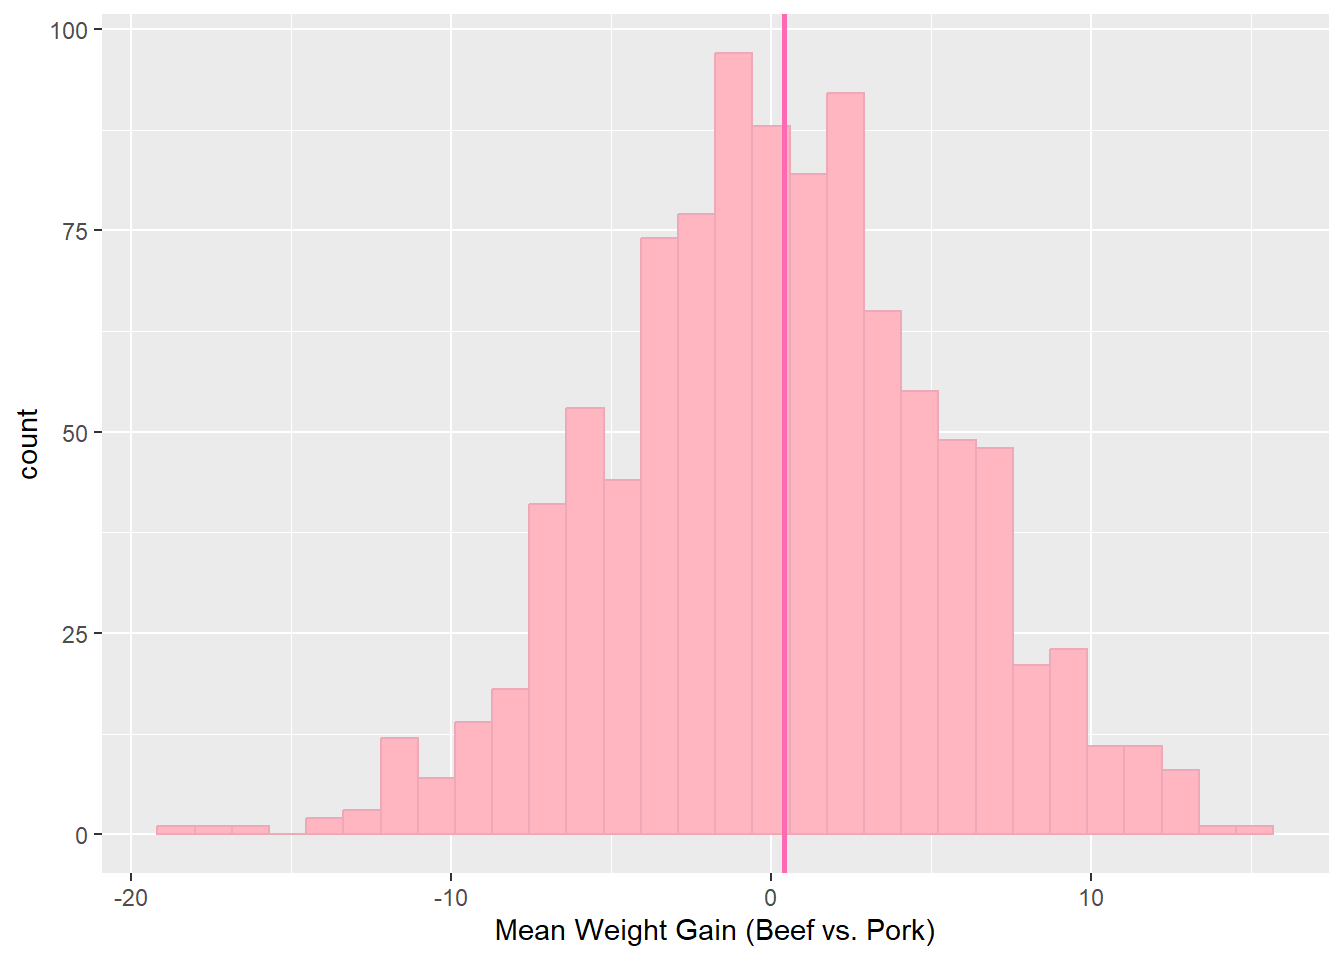
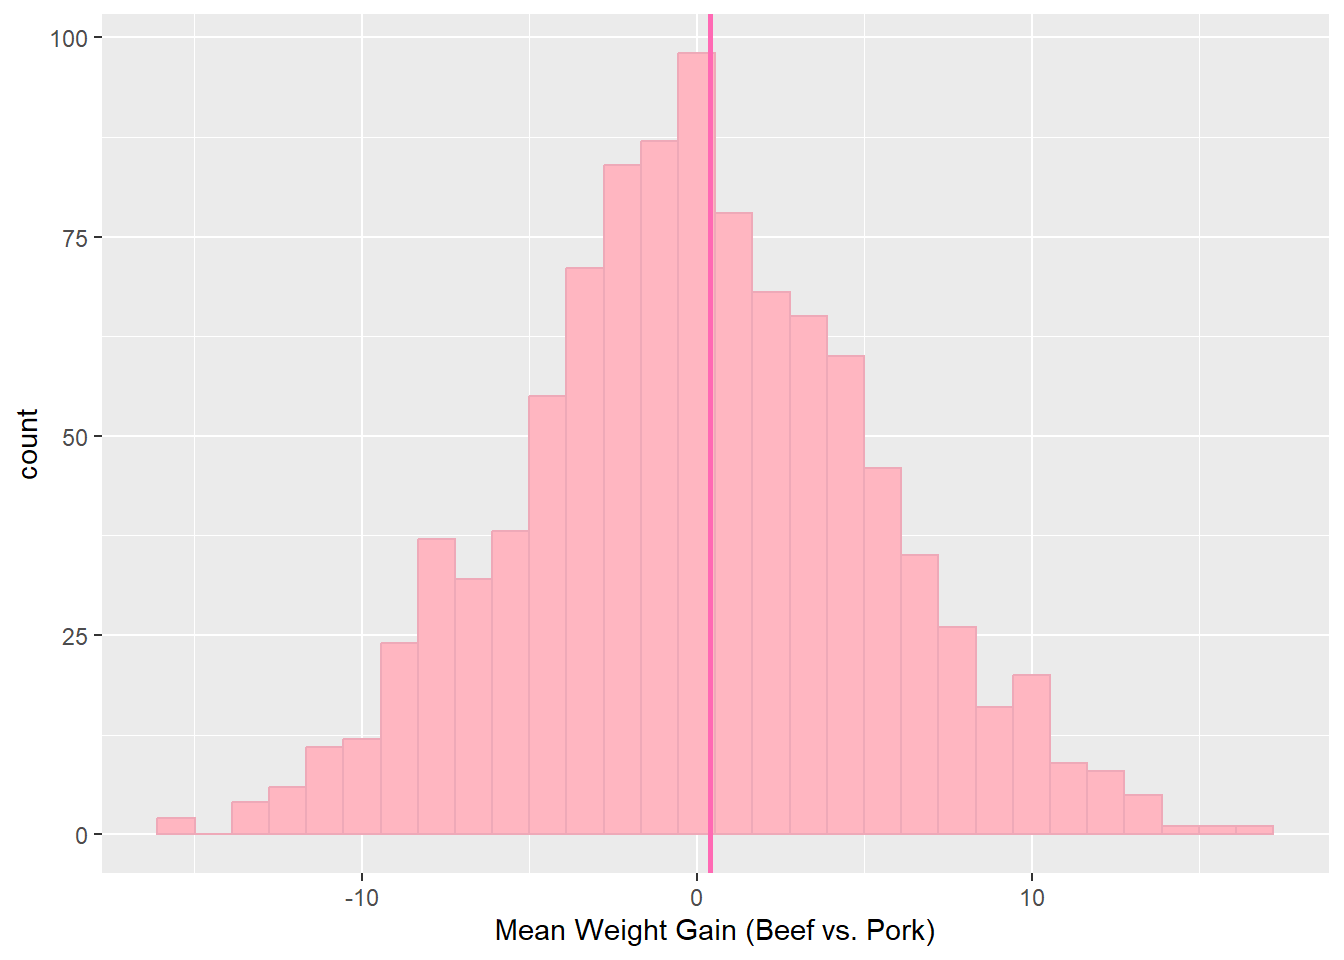
RATS!!

diff --git a/docs/mini_project2.html b/docs/mini_project2.html
@@ -158,22 +158,22 @@ ul.task-list li input[type="checkbox"] {
 <p><img src="mini_project2_files/figure-html/unnamed-chunk-3-1.png" class="img-fluid" width="672"></p>
 </div>
 <div class="cell-output cell-output-stdout">
-<pre><code>Beef vs. Pork p-value: 0.311 </code></pre>
+<pre><code>Beef vs. Pork p-value: 0.288 </code></pre>
 </div>
 <div class="cell-output-display">
 <p><img src="mini_project2_files/figure-html/unnamed-chunk-3-2.png" class="img-fluid" width="672"></p>
 </div>
 <div class="cell-output cell-output-stdout">
-<pre><code>Beef vs. Cereal p-value: 0.294 </code></pre>
+<pre><code>Beef vs. Cereal p-value: 0.299 </code></pre>
 </div>
 <div class="cell-output-display">
 <p><img src="mini_project2_files/figure-html/unnamed-chunk-3-3.png" class="img-fluid" width="672"></p>
 </div>
 <div class="cell-output cell-output-stdout">
-<pre><code>Pork vs. Cereal p-value: 0.297 </code></pre>
+<pre><code>Pork vs. Cereal p-value: 0.292 </code></pre>
 </div>
 </div>
-<p>As we can see, all of the p-values are close to 0.3. Generally, if the p-value is less than 0.05, we will consider the results of the study statistically significant. Because these results are well over the point of statistical significance, we can fail to reject the null hypothesis and claim that the difference in weight gains due to different protiens is not statistically significant.</p>
+<p>As we can see, all of the p-values are close to 0.3. Generally, if the p-value is less than 0.05, we will consider the results of the study statistically significant. Because these results are well over the point of statistical significance, we can fail to reject the null hypothesis and claim that the difference in weight gains due to different proteins is not statistically significant.</p>
 
 
 </section>
